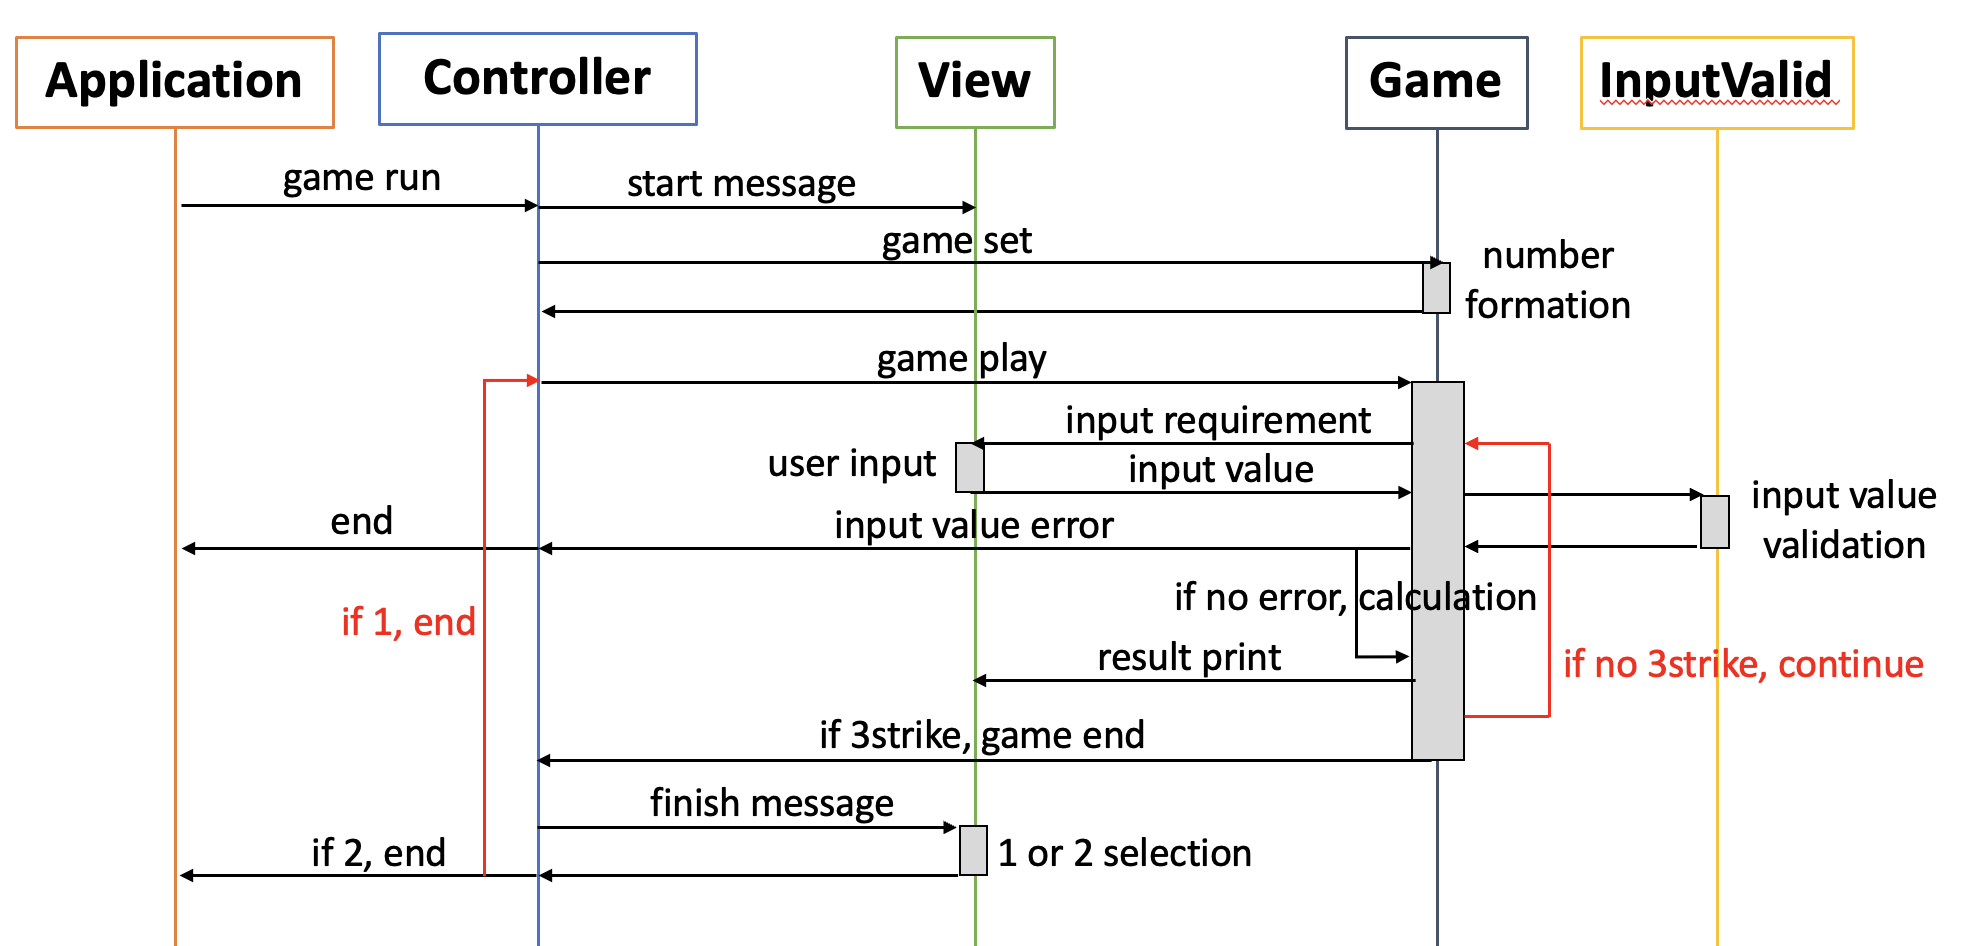
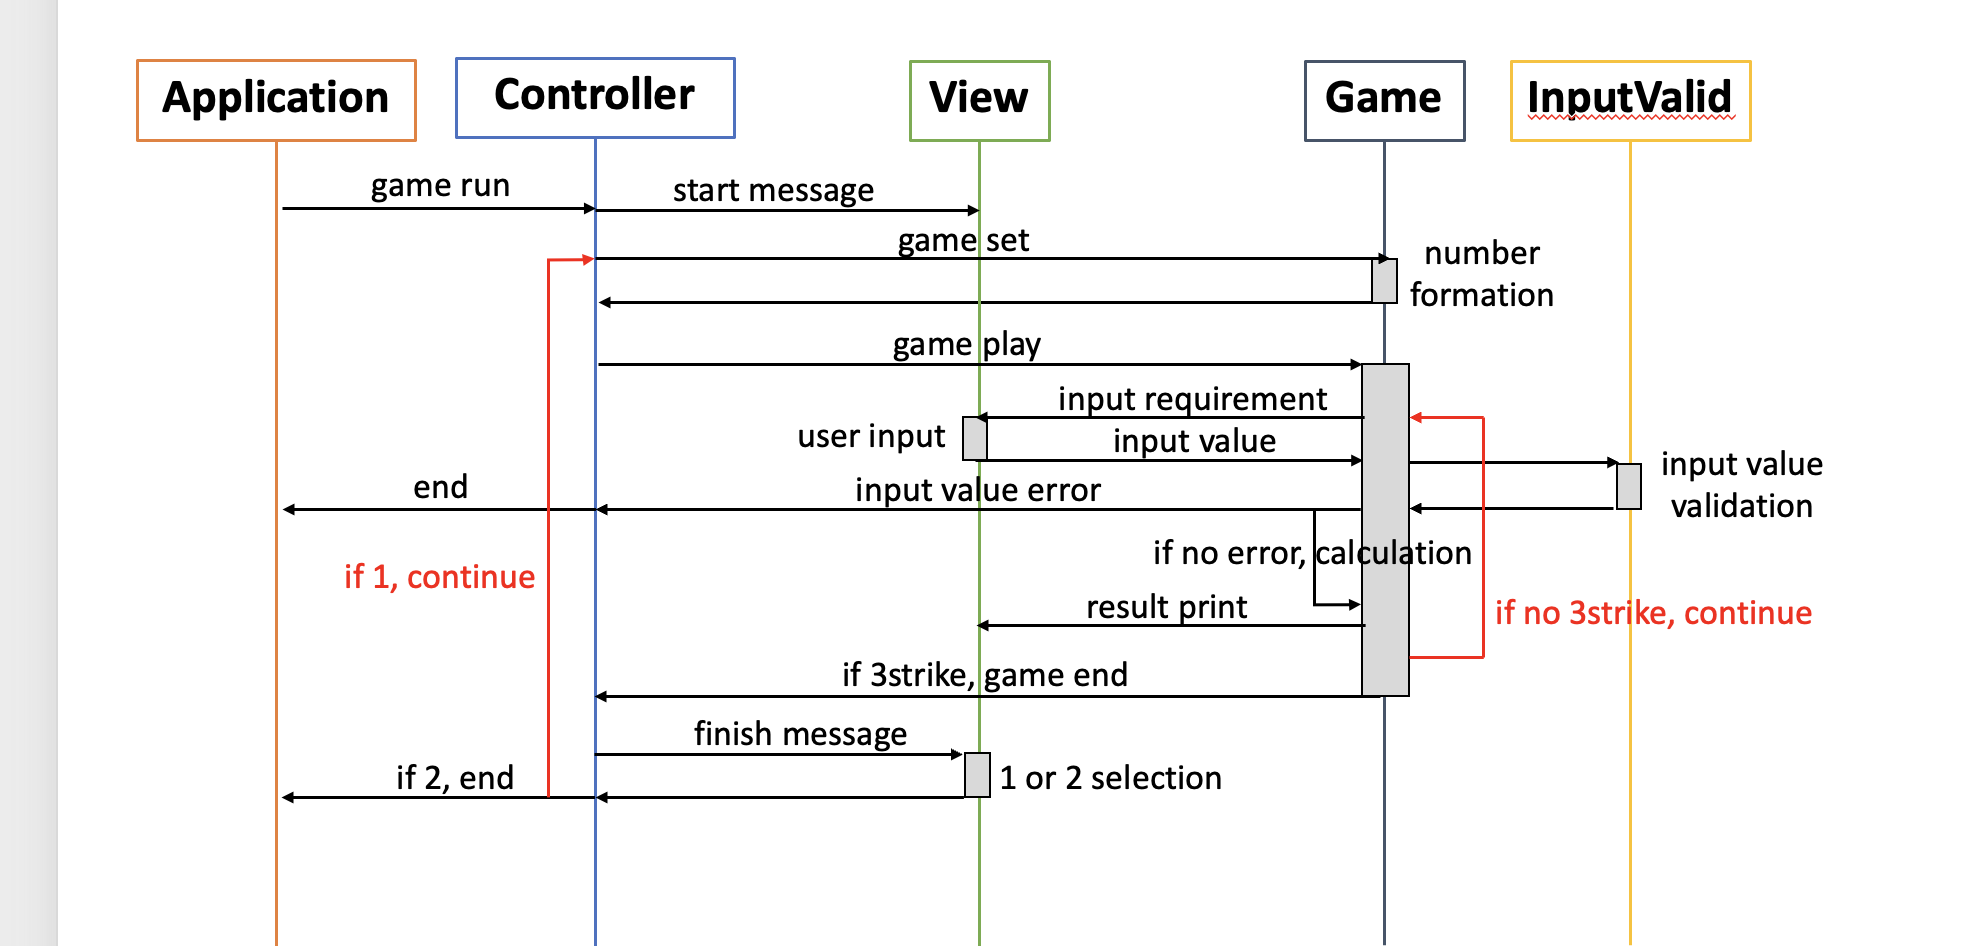
1차적으로 구현 과제 완료
1. clean code라고 할 수 없을 정도로 코드가 보기 좋지 않다. -> 남은 기간 동안 수정
2. Java 코드 컨벤션에 대해서 더 공부해야 겠단 필요성 -> naming이나 순서 등과 같은 문제 수정

Changed region(s): [[0.0, 0.0, 0.9909, 1.0], [0.6503, 0.0307, 0.9289, 0.1533], [0.4335, 0.0307, 0.5574, 0.1533]]

diff --git a/src/main/java/baseball/service/GameService.java b/src/main/java/baseball/service/GameService.java
@@ -1,0 +1,110 @@
+package baseball.service;
+
+import baseball.validation.InputValueValidation;
+import baseball.view.GameMessage;
+import camp.nextstep.edu.missionutils.Console;
+import camp.nextstep.edu.missionutils.Randoms;
+
+import java.util.ArrayList;
+import java.util.List;
+import java.util.Objects;
+
+public class GameService {
+
+    private int size;
+    private int[] baseNumber;
+//    private List<Integer> inputValueList = new ArrayList<Integer>(List.of(0,0,0));
+    private int inputNumber;
+    private int ballCount;
+    private int strikeCount;
+
+    InputValueValidation validation = new InputValueValidation();
+
+    public void setGame(int startInclusive, int endInclusive, int count){
+        this.size = count;
+        baseNumber = new int[count];
+//        List<Integer> arr = Randoms.pickUniqueNumbersInRange(startInclusive, endInclusive, count);
+        int r1 = Randoms.pickNumberInRange(startInclusive, endInclusive);
+        baseNumber[0] = r1;
+        int r2 = Randoms.pickNumberInRange(startInclusive, endInclusive);
+        while(r1 == r2){
+            r2 = Randoms.pickNumberInRange(startInclusive, endInclusive);
+        }
+        baseNumber[1] = r2;
+        int r3 = Randoms.pickNumberInRange(startInclusive, endInclusive);
+        while(r1 == r3 || r2 == r3){
+            r3 = Randoms.pickNumberInRange(startInclusive, endInclusive);
+        }
+        baseNumber[2] = r3;
+
+        System.out.println("정답 : "+r1+" "+r2+" "+r3);
+    }
+
+    public void playGame(){
+        inputRequirement(); //view에게 '숫자를 입력해주세요' 출력 부탁
+        inputValueValid(); // input 받아서 검증까지
+        calculateBallStrike(); // ball & strike 계산
+        resultPrint(); // 위 ball & strike 내용 바탕으로 계산
+        retryPlay(); // 3스트라이크 여부 판단
+    }
+
+    public void inputRequirement(){
+        GameMessage.inputRequirementMessage();
+    }
+
+    public void inputValueValid(){
+        String input = Console.readLine();
+        inputNumber = validation.valid(input, size);
+        ballCount = 0;
+        strikeCount = 0;
+    }
+
+//    public void inputToList(int num){
+//        inputValueList.set(0, num/100);
+//        inputValueList.set(1, (num/10)%10);
+//        inputValueList.set(2, num%10);
+//    }
+
+    public void calculateBallStrike(){
+//        updateBallStrike(0,1,2);
+//        updateBallStrike(1,2,0);
+//        updateBallStrike(2,0,1);
+        int first = inputNumber/100;
+        int second = (inputNumber/10)%10;
+        int third = inputNumber%10;
+        if(baseNumber[0] == first){
+            strikeCount++;
+        } else if (baseNumber[0] == second || baseNumber[0] == third) {
+            ballCount++;
+        }
+        if(baseNumber[1] == second){
+            strikeCount++;
+        } else if (baseNumber[1] == first || baseNumber[1] == third) {
+            ballCount++;
+        }
+        if(baseNumber[2] == third){
+            strikeCount++;
+        } else if (baseNumber[2] == second || baseNumber[2] == first) {
+            ballCount++;
+        }
+    }
+
+//    public void updateBallStrike(int i, int j, int k){
+//        if(Objects.equals(baseNumber.get(i), inputValueList.get(i))){
+//            strikeCount++;
+//        } else if(Objects.equals(baseNumber.get(i), inputValueList.get(j))
+//                || Objects.equals(baseNumber.get(i), inputValueList.get(k))){
+//            ballCount++;
+//        }
+//    }
+
+    public void resultPrint(){
+        GameMessage.resultMessage(ballCount, strikeCount);
+    }
+
+    public void retryPlay(){
+        if(strikeCount != 3){
+            playGame();
+        }
+    }
+}

diff --git a/src/main/java/baseball/Controller.java b/src/main/java/baseball/Controller.java
@@ -1,0 +1,59 @@
+package baseball;
+
+import baseball.service.GameService;
+import baseball.view.ControllerMessage;
+import camp.nextstep.edu.missionutils.Console;
+
+public class Controller {
+
+    private final int GAME_RETRY = 1;
+    private final int START_INCLUSIVE = 1;
+    private final int END_INCLUSIVE = 9;
+    private final int COUNT = 3;
+
+    private GameService gameService = new GameService();
+
+    public Controller(){
+        ControllerMessage.startMessage();
+    }
+
+    public void run(){
+        setGame();
+        playGame();
+        endGame();
+        retryGame();
+    }
+
+    public void setGame(){
+        gameService.setGame(START_INCLUSIVE, END_INCLUSIVE, COUNT);
+    }
+
+    public void playGame() {
+        gameService.playGame();
+    }
+
+    public void endGame() {
+        ControllerMessage.endMessage();
+    }
+
+    public void retryGame() throws IllegalArgumentException{
+        ControllerMessage.retryMessage();
+        if(inputRetryValid() == GAME_RETRY){
+            run();
+        }
+    }
+
+    public int inputRetryValid() throws IllegalArgumentException{
+        String input = Console.readLine();
+        try{ // input이 문자인 경우를 대비
+            int gameRetry = Integer.parseInt(input);
+            if(gameRetry <= 0 || gameRetry >= 3){
+                throw new IllegalArgumentException();
+            }
+            return gameRetry;
+        } catch(NumberFormatException e){
+            throw new IllegalArgumentException();
+        }
+    }
+
+}

diff --git a/src/main/java/baseball/validation/InputValueValidation.java b/src/main/java/baseball/validation/InputValueValidation.java
@@ -1,0 +1,48 @@
+package baseball.validation;
+
+import camp.nextstep.edu.missionutils.Console;
+
+public class InputValueValidation {
+
+    public int valid(String input, int size) throws IllegalArgumentException{
+        int inputValue = notNumber(input);
+        notThreeNumber(input, size);
+        includeZero(inputValue);
+        notEachDifferent(inputValue);
+        return inputValue;
+    }
+
+    //문자 포함일 때,
+    private int notNumber(String input) throws IllegalArgumentException{
+        try{
+            return Integer.parseInt(input);
+        } catch(NumberFormatException e){
+            throw new IllegalArgumentException();
+        }
+    }
+
+    //3의 자리가 아닐 때,
+    private void notThreeNumber(String input, int size) throws IllegalArgumentException{
+        if(input.length() != size){
+            throw new IllegalArgumentException();
+        }
+    }
+
+    //숫자 0을 포함하고 있는 경우
+    private void includeZero(int num) throws IllegalArgumentException {
+        if(num/100 == 0 || (num/10)%10 == 0 || num %10 == 0){
+            throw new IllegalArgumentException();
+        }
+    }
+
+    //서로 다른 3개의 숫자가 아닌 경우
+    private void notEachDifferent(int num) throws IllegalArgumentException {
+        int n1 = num/100;
+        int n2 = (num/10)%10;
+        int n3 = num %10;
+        if(n1 == n2 || n1 == n3 || n2 == n3){
+            throw new IllegalArgumentException();
+        }
+    }
+
+}

diff --git a/src/main/java/baseball/view/GameMessage.java b/src/main/java/baseball/view/GameMessage.java
@@ -1,0 +1,21 @@
+package baseball.view;
+
+public class GameMessage {
+
+    public static void inputRequirementMessage(){
+        System.out.print("숫자를 입력해주세요 : ");
+    }
+
+    public static void resultMessage(int ball, int strike){
+        if(ball == 0 && strike == 0){
+            System.out.println("낫싱");
+        } else if(ball == 0 && strike > 0 && strike <= 3){
+            System.out.println(strike+"스트라이크");
+        } else if(strike == 0 && ball > 0 && ball <= 3){
+            System.out.println(ball+"볼");
+        } else{
+            System.out.println(ball+"볼 "+strike+"스트라이크");
+        }
+    }
+
+}

diff --git a/src/main/java/baseball/view/ControllerMessage.java b/src/main/java/baseball/view/ControllerMessage.java
@@ -1,0 +1,17 @@
+package baseball.view;
+
+public class ControllerMessage {
+
+    public static void startMessage(){
+        System.out.println("숫자 야구 게임을 시작합니다.");
+    }
+
+    public static void endMessage(){
+        System.out.println("3개의 숫자를 모두 맞히셨습니다! 게임 종료");
+    }
+
+    public static void retryMessage(){
+        System.out.println("게임을 새로 시작하려면 1, 종료하려면 2를 입력하세요.");
+    }
+
+}

diff --git a/src/main/java/baseball/Application.java b/src/main/java/baseball/Application.java
@@ -2,6 +2,7 @@ package baseball;
 
 public class Application {
     public static void main(String[] args) {
-        // TODO: 프로그램 구현
+        Controller controller = new Controller();
+        controller.run();
     }
 }

diff --git a/docs/README.md b/docs/README.md
@@ -3,7 +3,8 @@
 2. 사용자에게 수를 입력 받는다. - readLine()
 3. 입력 받은 수를 검증한다.
    - 잘못된 값을 경우, IllegalArgumentException 발생 후 application 종료
-     - 3개의 숫자를 입력하지 않은 경우
+     - 문자를 포함하고 있는 경우
+     - 3자리 숫자가 아닌 경우
      - 숫자 0을 포함하고 있는 경우
      - 서로 다른 3개의 숫자가 아닌 경우(ex. 337, 299)
 4. 입력 받은 수와 (a)를 비교해서 볼과 스트라이크 개수를 구함
@@ -11,14 +12,14 @@
    - 볼 : 숫자는 (a)에 들어가 있지만 위치가 일치하지 않은 경우
 5. 위의 결과를 바탕으로 출력값을 결정
    - 스트라이크 & 볼 0개 : '낫싱'
-   - 스트라이크 1~2개 & 볼 0개 : n스트라이크
+   - 스트라이크 1~3개 & 볼 0개 : n스트라이크
    - 스트라이크 0개 & 볼 1~3개 : n볼
    - 스트라이크 1~2개 & 볼 1~2개 : n볼 n스트라이크
-   - 스트라이크 3개 : 3스트라이크
      - 정답 이후 : 3개의 숫자를 모두 맞히셨습니다! 게임 종료
      - 계속 여부 묻기 : 게임을 새로 시작하려면 1, 종료하려면 2를 입력하세요.
        - 1일 경우, 1번으로 다시 돌아간다.
        - 2일 경우, 게임을 완전히 종료한다.
+       - 1과 2가 아닌 경우에, IllegalArgumentException 발생 후 application 종료
 
 # 👨🏻💻 프로그래밍 요구 사항(신경썼던 것)
 - 블록 들여쓰기 : 4 spaces(=tap)
